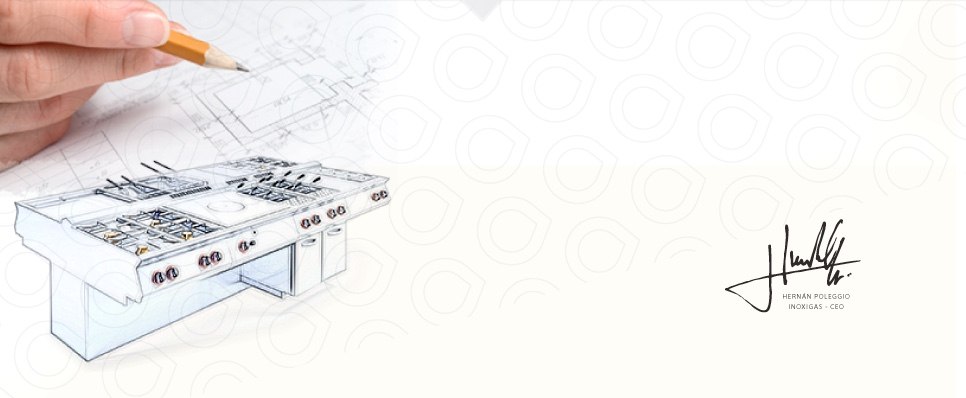
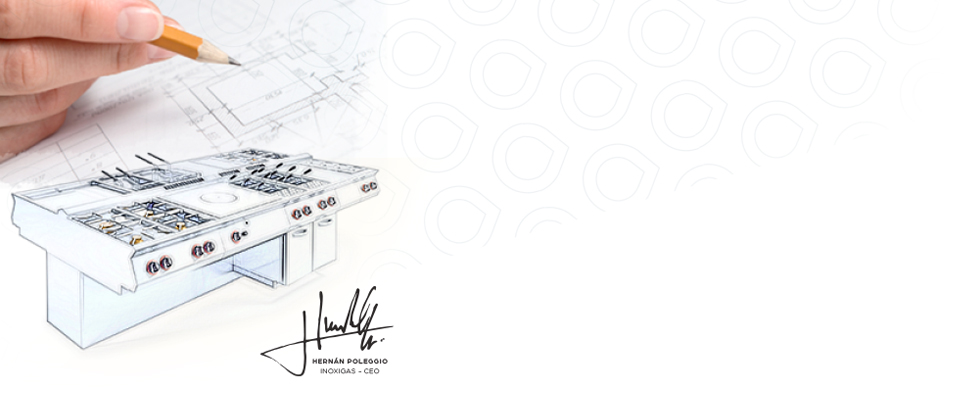
Google webmaster tool

diff --git a/assets/css/main.css b/assets/css/main.css
@@ -8,28 +8,28 @@ a {
     text-decoration: none;
 }
 ::-webkit-input-placeholder {
-		color: #002B40; 
-		font-family: 'Courgette', cursive; 
+		color: #002C41; 
+		font-family: 'Lora', serif;
 		font-size: 1em
 }
 ::-ms-input-placeholder {
-		color: #002B40; 
-		font-family: 'Courgette', cursive; 
+		color: #002C41; 
+		font-family: 'Lora', serif;
 		font-size: 1em
 }
 ::-moz-input-placeholder {
-	color: #002B40; 
-	font-family: 'Courgette', cursive; 
+	color: #002C41; 
+	font-family: 'Lora', serif;
 	font-size: 1em
 }
 ::-webkit-input-placeholder {
-	color: #002B40; 
-	font-family: 'Courgette', cursive; 
+	color: #002C41; 
+	font-family: 'Lora', serif;
 	font-size: 1em
 }
 ::placeholder {
-	color: #002B40; 
-	font-family: 'Courgette', cursive; 
+	color: #002C41; 
+	font-family: 'Lora', serif;
 	font-size: 1em
 }
 
@@ -176,7 +176,9 @@ textarea {
 }
 .Clientes h2 {
 	border-bottom: solid 1px #002B40;
+    color: #002C41;
 	font-size: 19px;
+    font-weight: bold;
 	margin: auto;
 	padding: 2em 0 .5em 0;
 	width: 80%;
@@ -184,6 +186,7 @@ textarea {
 .Clientes .Col1 {
 	height: auto;
 	display: inline-block;
+    font-size: 1em;
 	margin: 2em 1em 2em 1em;
 	vertical-align: top;
 	width: 20%;
@@ -240,15 +243,20 @@ textarea {
 	width: 50%;
 }
 .Cuarenta .col245 h2 {
+    color: #002C41;
+    font-family: 'Lora', serif;
+    font-weight: bold;
 	padding: 0 0 .5em 0;
 	text-align: left;
 }
 .Cuarenta .col245 article p {
-	line-height: 1.6em;
+    color: #58595B;
+    font-size: 1.2em;
+	line-height: 1.4em;
 	text-align: left;
 }
 .Firma {
-	height: 350px;
+	height: 480px;
 	background-image: url('../../assets/images/firma.jpg');
 	background-position: center;
 	background-size: cover;
@@ -274,10 +282,12 @@ textarea {
 	height: auto;
 	display: inline-block;
 	vertical-align: top;
-	width: 60%;
+	width: 65%;
 }
 .Firma .FirmaCol2 article p {
+    color: #58595B;
 	line-height: 1.8em;
+    margin: 2.5em 2em 0 5em;
 	text-align: left;
 }
 .FirmaHernan {

diff --git a/google0ce7736467187c45 (1).html b/google0ce7736467187c45 (1).html
@@ -1,0 +1,1 @@
+google-site-verification: google0ce7736467187c45.html

diff --git a/functions.php b/functions.php
@@ -4,7 +4,6 @@
 
 		wp_enqueue_style("opensans", "https://fonts.googleapis.com/css?family=Open+Sans");
 		wp_enqueue_style("lorabiryani", "https://fonts.googleapis.com/css?family=Biryani|Lora");
-		wp_enqueue_style("Yellowtail", "https://fonts.googleapis.com/css?family=Courgette");
 		wp_enqueue_style("normalize", get_stylesheet_directory_uri()."/assets/css/normalize.css");
 		wp_enqueue_style("main", get_stylesheet_directory_uri()."/assets/css/main.css");
 		//wp_enqueue_style("480", get_stylesheet_directory_uri()."/assets/css/1024.css");

diff --git a/includes/analyticstracking.php b/includes/analyticstracking.php
@@ -1,0 +1,10 @@
+<script>
+  (function(i,s,o,g,r,a,m){i['GoogleAnalyticsObject']=r;i[r]=i[r]||function(){
+  (i[r].q=i[r].q||[]).push(arguments)},i[r].l=1*new Date();a=s.createElement(o),
+  m=s.getElementsByTagName(o)[0];a.async=1;a.src=g;m.parentNode.insertBefore(a,m)
+  })(window,document,'script','https://www.google-analytics.com/analytics.js','ga');
+
+  ga('create', 'UA-86867467-1', 'auto');
+  ga('send', 'pageview');
+
+</script>

diff --git a/header.php b/header.php
@@ -12,6 +12,7 @@
 	<?php wp_head(); ?>
 
 	<link rel="icon" type="image/png" href="assets/images/favicon.ico" />
+	<meta name="google-site-verification" content="FrpFKxwcwEd8r4VfB0Ix3JXRya8alHFu4TFbfIYDVCQ" />
 </head>
 <body>
 

diff --git a/footer.php b/footer.php
@@ -50,5 +50,6 @@
 	</div> <!-- / Container -->
 		<script src="assets/js/jquery.js"></script>	
 		<?php wp_footer(); ?>
+		<?php include_once("includes/analyticstracking.php") ?>
 </body>
 </html>
